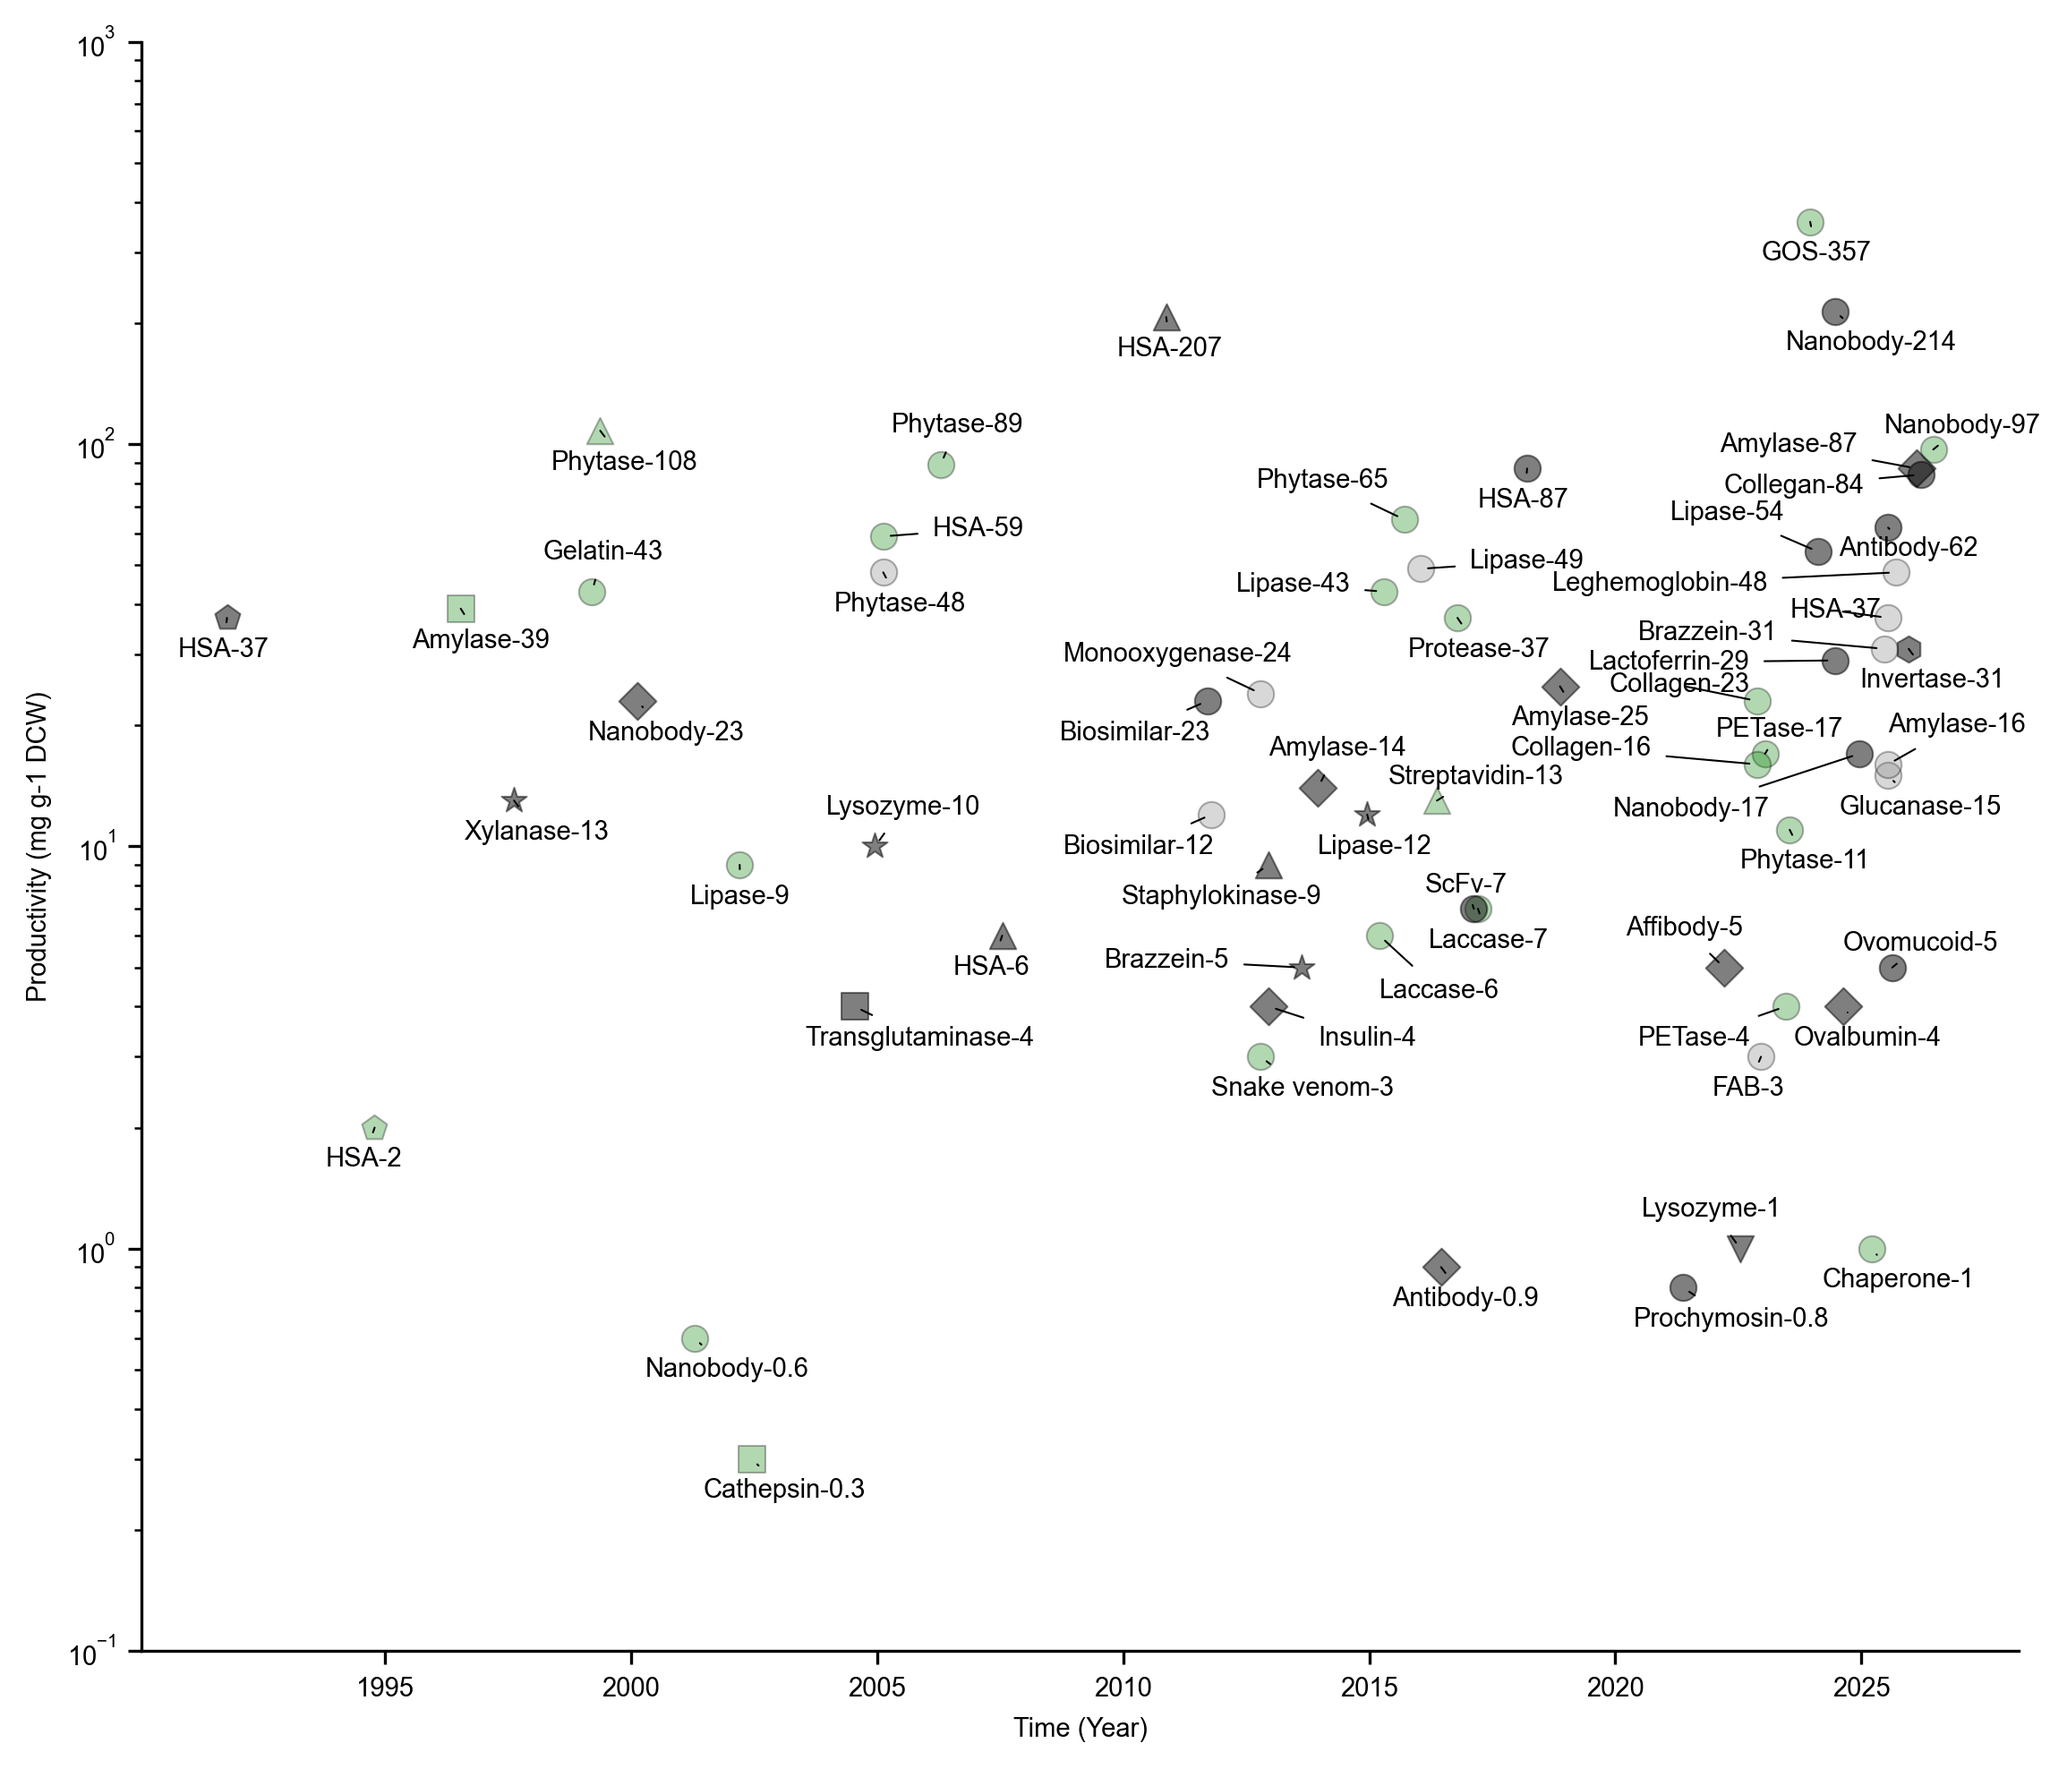
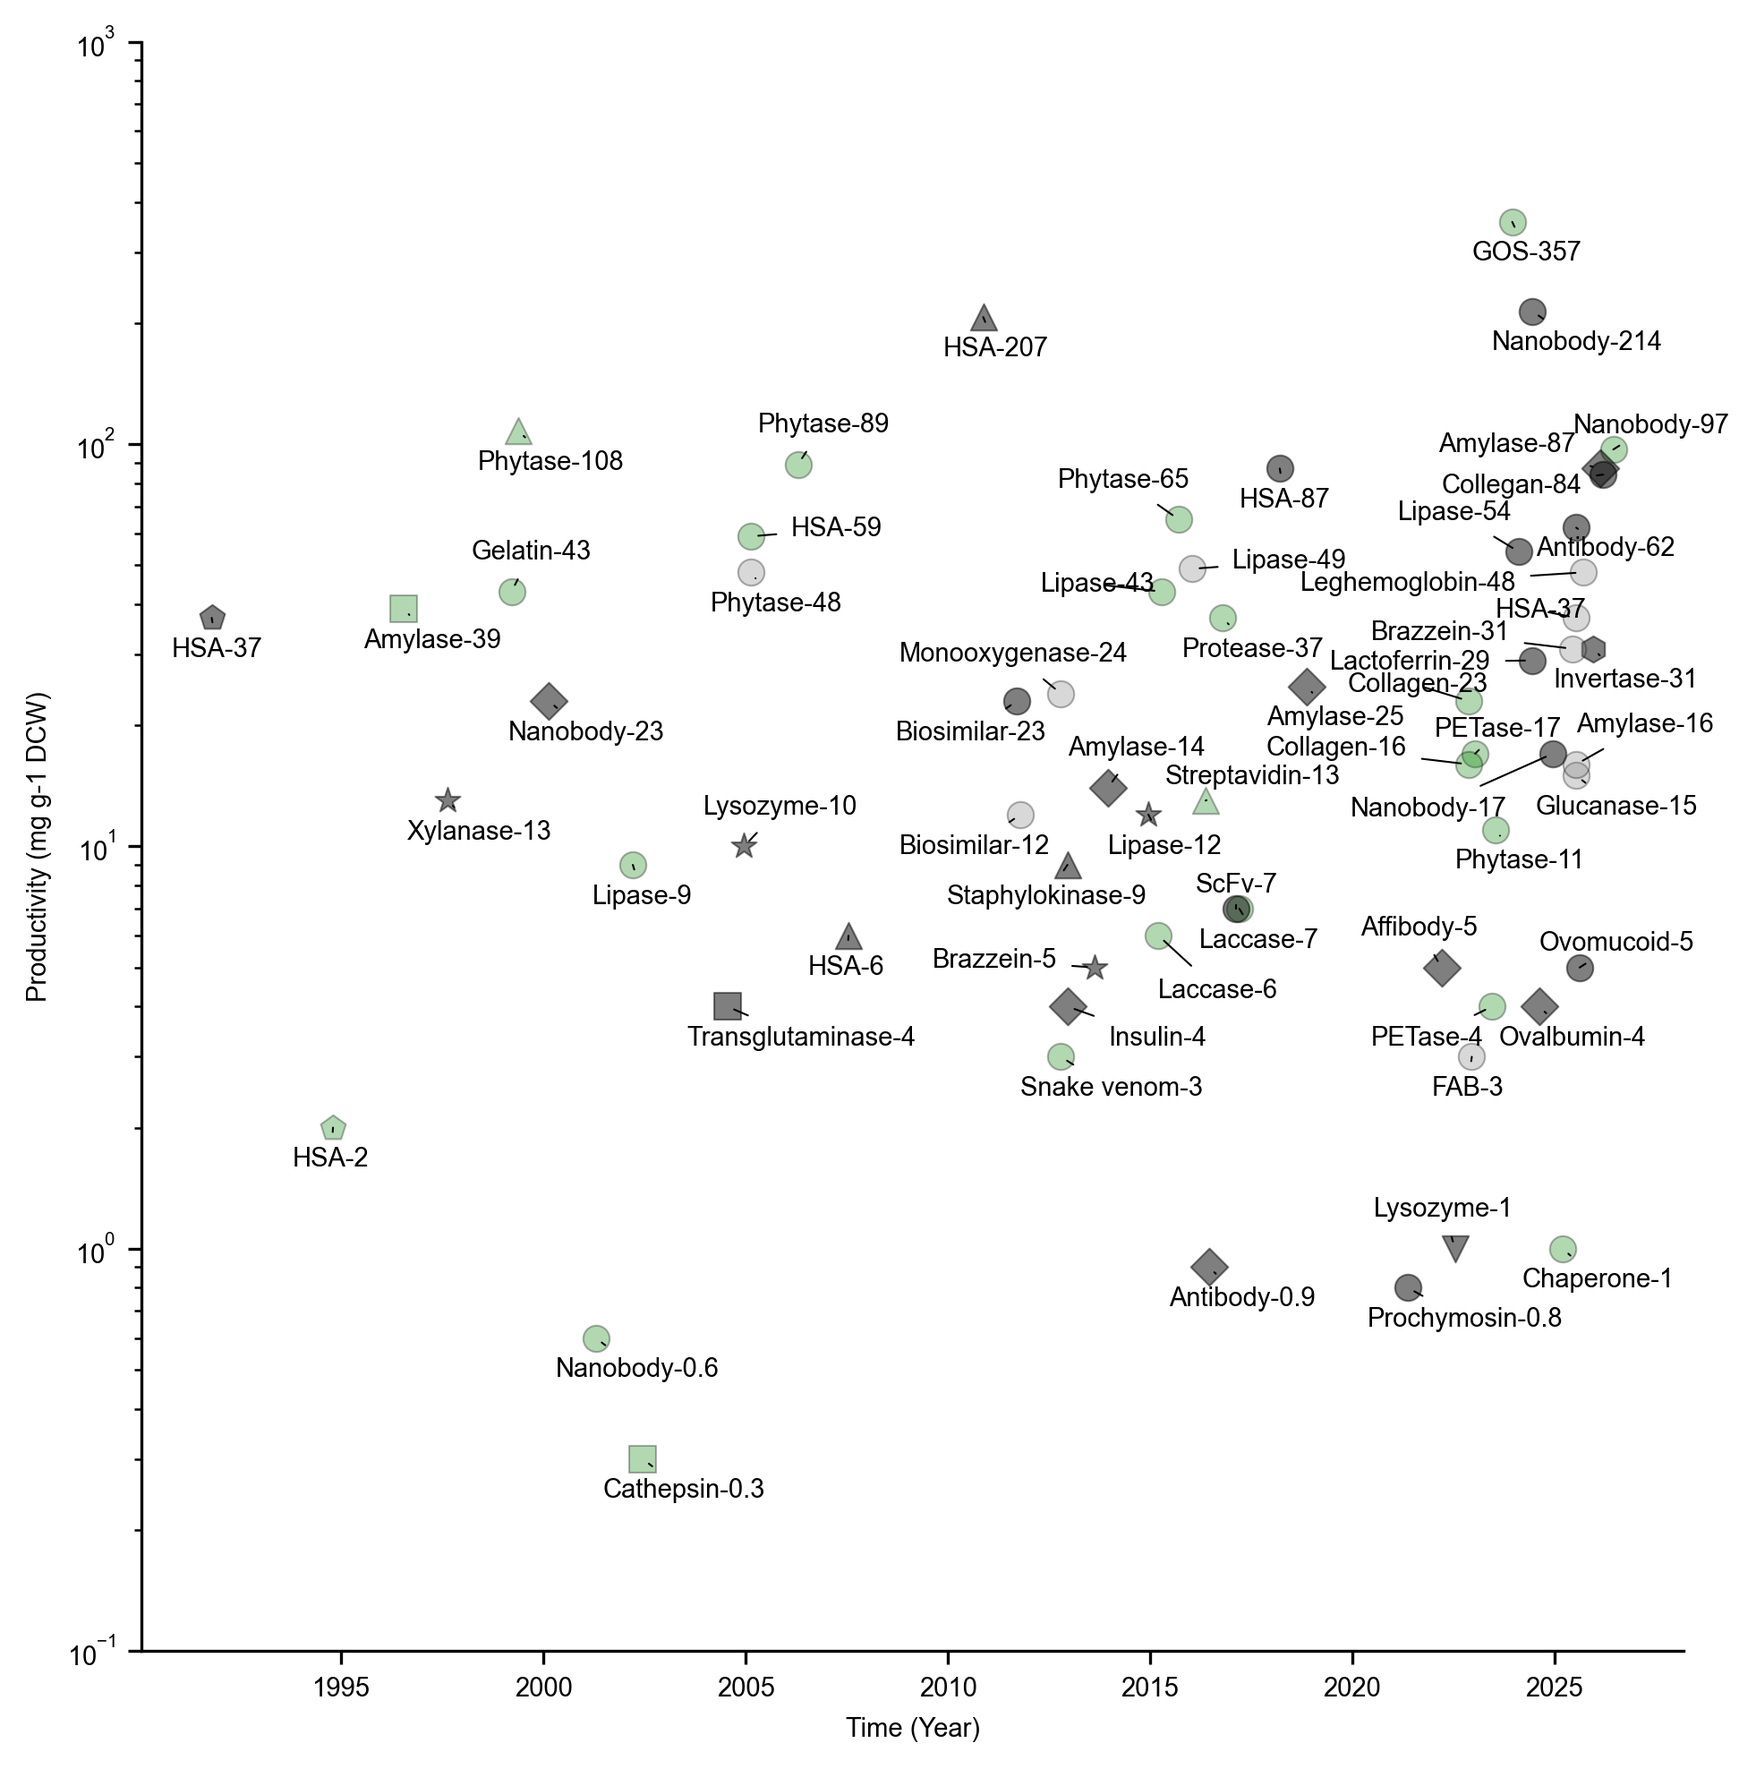
Initial commit

diff --git a/draw_yield.py b/draw_yield.py
@@ -42,7 +42,7 @@ def load_and_clean_data(file_path):
 
 # Plot the data in one figure
 def plot_data_figure(df):
-    plt.figure(figsize=(20 * 0.393701, 17 * 0.393701))  # Width and height both 17 cm
+    plt.figure(figsize=(17 * 0.393701, 17 * 0.393701))  # Width and height both 17 cm
 
     for _, row in df.iterrows():
         # Use CSV-defined styles
